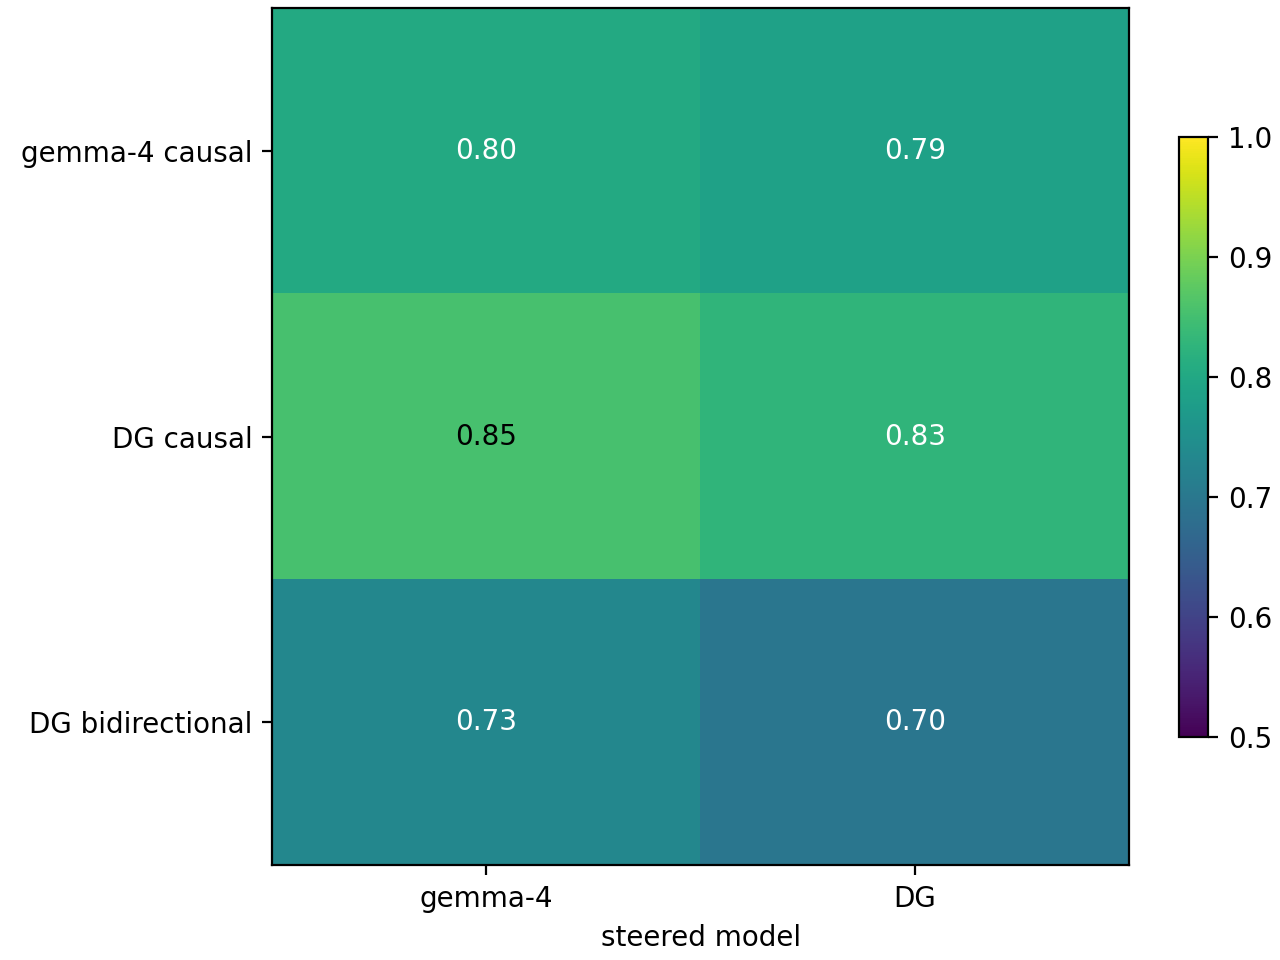
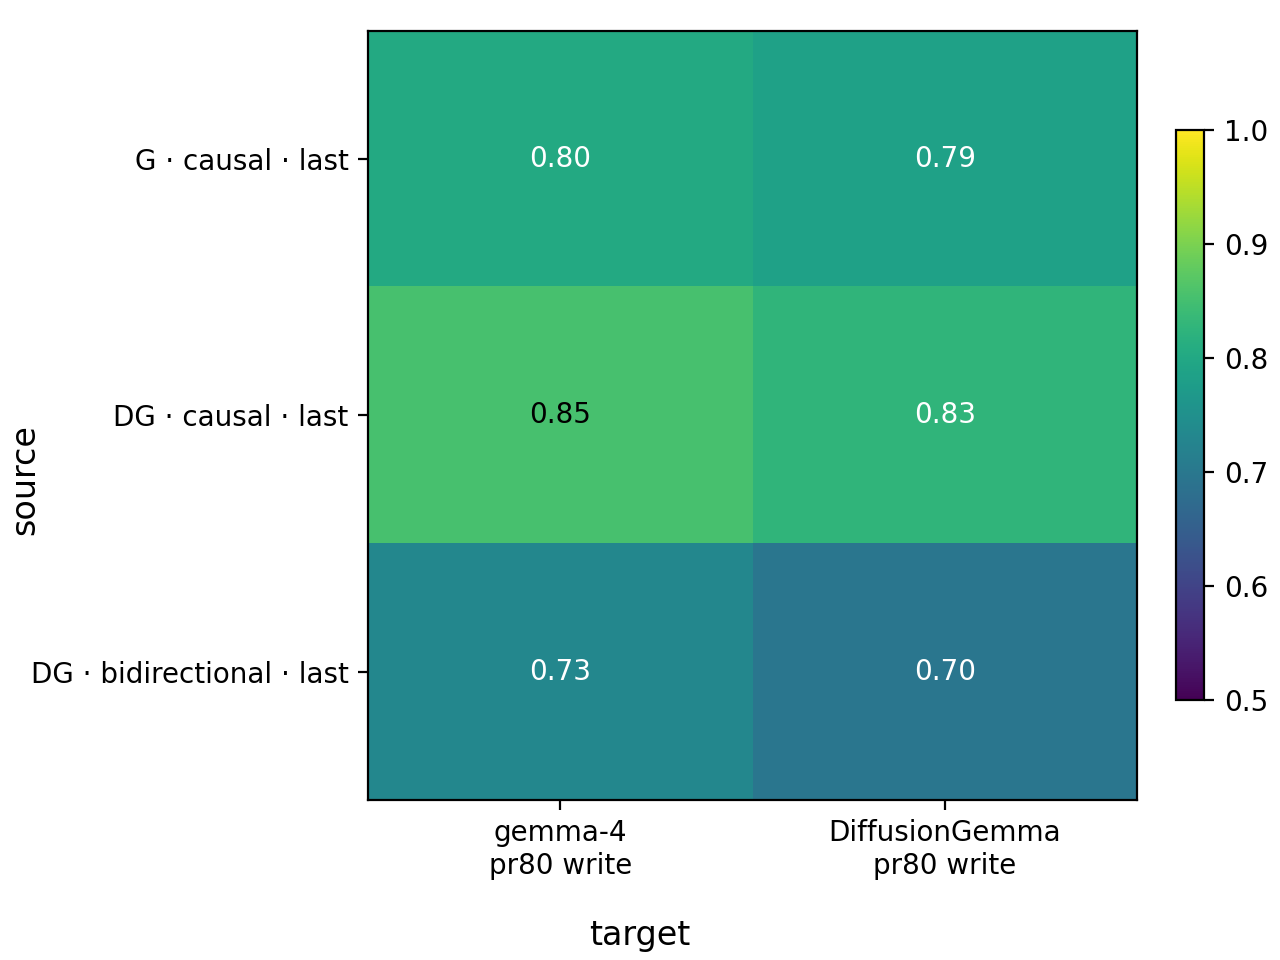
Source/target sup-labels + report-style detailed tick labels on probe/steer matrices; define mu; fixed-alpha wording
Claude-Session: https://claude.ai/code/session_01U8CiyQ7ySpBDkYEq4FzNBU

diff --git a/post.html b/post.html
@@ -112,11 +112,11 @@ $$</p>
 <h3>Probe retention</h3>
 <p>Probing allows to study how well a model separates concepts. We use 56 binary concept datasets from the SAE-Probes benchmark (<a href="https://arxiv.org/abs/2502.16681">Kantamneni et al., 2025</a>) and train logistic-regression probes on gemma-4's residual stream (1024 training examples per concept), optimizing the layer via heldout AUC. We then test this probe on DG.</p>
 <figure><img src="figs/figA2_probe_retention.png" alt="Probe retention"></figure>
-<p>_<strong>Probes largely transfer from Gemma to DiffusionGemma.</strong> Top: mean held-out AUC over the 56 concepts, trained-on × applied-to; DG is split by attention mode (last-position read everywhere), grey = causal ↔ bidirectional cross-cells not measured. Bottom: a held-out positive and negative test text for one concept (world news): the same gemma-trained probe scores gemma-4 and DG activations near-identically._</p>
+<p>_<strong>Probes largely transfer from Gemma to DiffusionGemma.</strong> Top: mean held-out AUC over the 56 concepts, probe source (trained on) × target (applied to); DG is split by attention mode (last-position read everywhere), grey = causal ↔ bidirectional cross-cells not measured. Bottom: a held-out positive and negative test text for one concept (world news): the same gemma-trained probe scores gemma-4 and DG activations near-identically._</p>
 <p>#### DiffusionGemma's representation is more linearly separable</p>
 <p>Interestingly, training and applying probes on DiffusionGemma in _bidirectional_ attention mode yields a somewhat higher AUC. This is suggestive of DG's bidirectional attention yielding a better structured representation, but is confounded by potentially longer training. </p>
 <h3>Steering retention</h3>
-<p>To see whether these similarities in representation are causally load-bearing, we consider the steering experiments from the RepE paper (<a href="https://arxiv.org/abs/2310.01405">Zou et al., 2023</a>). For each of 11 RepE concept tasks we fit a direction $\hat v = \mathrm{normalize}\big(\mu(h\,\vert\,\mathrm{pos}) - \mu(h\,\vert\,\mathrm{neg})\big)$ from the task's contrastive stimulus pairs, read at the last token separately on each stream (gemma-4, DG causal, DG bidirectional). The direction is then injected additively into the residual stream of the steered model ($h' \leftarrow h' + \alpha\,\lVert h'\rVert\,\hat v$, layers 9–19, $\alpha=0.35$) while it completes a neutral carrier prompt, once with $+\hat v$ and once with $-\hat v$. A blinded judge sees the two generations in random order and must identify the $+$steer one; chance is 0.5.</p>
+<p>To see whether these similarities in representation are causally load-bearing, we consider the steering experiments from the RepE paper (<a href="https://arxiv.org/abs/2310.01405">Zou et al., 2023</a>). For each of 11 RepE concept tasks we fit a direction $\hat v = \mathrm{normalize}\big(\mu(h\,\vert\,\mathrm{pos}) - \mu(h\,\vert\,\mathrm{neg})\big)$, where $\mu(h\,\vert\,\mathrm{pos})$ denotes the mean last-token residual activation $h$ over the task's positive contrastive stimuli (likewise for $\mathrm{neg}$), read separately on each stream (gemma-4, DG causal, DG bidirectional). The direction is then injected additively into the residual stream of the steered model at a fixed strength ($h' \leftarrow h' + \alpha\,\lVert h'\rVert\,\hat v$ with $\alpha=0.35$, layers 9–19) while it completes a neutral carrier prompt, once with $+\hat v$ and once with $-\hat v$. A blinded judge sees the two generations in random order and must identify the $+$steer one.</p>
 <figure><img src="figs/figA3_steer_retention.png" alt="Steering retention"></figure>
 <p>_<strong>Steering largely transfers from Gemma to DiffusionGemma.</strong> Top: blind-pair judge accuracy, direction source × steered model — every cell steers well above chance (0.70–0.85); bidirectional-fit directions are the weakest sources. Bottom: the same gemma-fit happiness direction applied to gemma-4 and DiffusionGemma on one carrier prompt; judge digests in italics._</p>
 <h3>J-Lens retention</h3>

diff --git a/scripts/figA3_steer.py b/scripts/figA3_steer.py
@@ -24,8 +24,10 @@ for k, v in jp["pairs"].items():
     tag, pi, cell, prot, _ = k.split("|")
     if prot == "pr80" and "correct" in v:
         acc[cell].append(bool(v["correct"]))
-ROWS = [("g", "gemma-4 causal"), ("e", "DG causal"), ("c", "DG bidirectional")]
-COLS = [("g", "gemma-4"), ("d", "DG")]
+# report-style model/mode/read tick hierarchy (source_label convention); targets carry the
+# pr80 write protocol
+ROWS = [("g", "G · causal · last"), ("e", "DG · causal · last"), ("c", "DG · bidirectional · last")]
+COLS = [("g", "gemma-4\npr80 write"), ("d", "DiffusionGemma\npr80 write")]
 M = np.array([[np.mean(acc[r + c]) for c, _ in COLS] for r, _ in ROWS])
 
 KEY = "re_0_happiness|8|gd|pr80|pos"
@@ -39,7 +41,8 @@ for (i, j), val in np.ndenumerate(M):
     axL.text(j, i, f"{val:.2f}", ha="center", va="center", color="white" if val < 0.85 else "black")
 axL.set_xticks([0, 1], [lab for _, lab in COLS])
 axL.set_yticks([0, 1, 2], [lab for _, lab in ROWS])
-axL.set_xlabel("steered model")
+fig.supxlabel("target")
+fig.supylabel("source")
 fig.colorbar(im_, ax=axL, shrink=0.7)
 fig.savefig(OUT / "parts" / "figA3_matrix.png", dpi=200)
 print(OUT / "parts" / "figA3_matrix.png")

diff --git a/scripts/figA2_probe.py b/scripts/figA2_probe.py
@@ -26,7 +26,8 @@ M = np.ma.masked_invalid([
     [mean("headline", "dg"), mean("headline", "dd"), np.nan],
     [mean("declast", "dg"),  np.nan,                 mean("declast", "dd")],
 ])
-LABS = ["gemma-4", "DG causal", "DG bidirectional"]
+# report-style model/mode/read tick hierarchy (source_label convention)
+LABS = ["G\ncausal\nlast", "DG\ncausal\nlast", "DG\nbidirectional\nlast"]
 
 pe = json.load(open(SP / "probe_example_scores.json"))
 TAG = "161_agnews_0"
@@ -47,10 +48,10 @@ axL.set_box_aspect(1)
 for (i, j), v in np.ndenumerate(M):
     axL.text(j, i, "—" if M.mask[i, j] else f"{v:.2f}", ha="center", va="center",
              color="0.4" if M.mask[i, j] else ("white" if v < 0.85 else "black"))
-axL.set_xticks(range(3), [l.replace(" ", "\n") for l in LABS])
-axL.set_yticks(range(3), LABS)
-axL.set_xlabel("applied to")
-axL.set_ylabel("trained on")
+axL.set_xticks(range(3), LABS)
+axL.set_yticks(range(3), [l.replace("\n", " · ") for l in LABS])
+fig.supxlabel("target")
+fig.supylabel("source")
 fig.colorbar(im_, ax=axL, shrink=0.7)
 fig.savefig(OUT / "parts" / "figA2_matrix.png", dpi=200)
 print(OUT / "parts" / "figA2_matrix.png")

diff --git a/post.md b/post.md
@@ -100,7 +100,7 @@ Probing allows to study how well a model separates concepts. We use 56 binary co
 
 ![Probe retention](figs/figA2_probe_retention.png)
 
-_**Probes largely transfer from Gemma to DiffusionGemma.** Top: mean held-out AUC over the 56 concepts, trained-on × applied-to; DG is split by attention mode (last-position read everywhere), grey = causal ↔ bidirectional cross-cells not measured. Bottom: a held-out positive and negative test text for one concept (world news): the same gemma-trained probe scores gemma-4 and DG activations near-identically._
+_**Probes largely transfer from Gemma to DiffusionGemma.** Top: mean held-out AUC over the 56 concepts, probe source (trained on) × target (applied to); DG is split by attention mode (last-position read everywhere), grey = causal ↔ bidirectional cross-cells not measured. Bottom: a held-out positive and negative test text for one concept (world news): the same gemma-trained probe scores gemma-4 and DG activations near-identically._
 
 #### DiffusionGemma's representation is more linearly separable
 
@@ -108,7 +108,7 @@ Interestingly, training and applying probes on DiffusionGemma in _bidirectional_
 
 ### Steering retention
 
-To see whether these similarities in representation are causally load-bearing, we consider the steering experiments from the RepE paper ([Zou et al., 2023](https://arxiv.org/abs/2310.01405)). For each of 11 RepE concept tasks we fit a direction $\hat v = \mathrm{normalize}\big(\mu(h\,\vert\,\mathrm{pos}) - \mu(h\,\vert\,\mathrm{neg})\big)$ from the task's contrastive stimulus pairs, read at the last token separately on each stream (gemma-4, DG causal, DG bidirectional). The direction is then injected into the residual stream of the steered model with optimized steering strength $\alpha$  ($h' \leftarrow h' + \alpha\,\lVert h'\rVert\,\hat v$, layers 9–19$) while it completes a neutral carrier prompt, once with +\hat v$ and once with $-\hat v$. A blinded judge sees the two generations in random order and must identify the $+$steer one; chance is 0.5.
+To see whether these similarities in representation are causally load-bearing, we consider the steering experiments from the RepE paper ([Zou et al., 2023](https://arxiv.org/abs/2310.01405)). For each of 11 RepE concept tasks we fit a direction $\hat v = \mathrm{normalize}\big(\mu(h\,\vert\,\mathrm{pos}) - \mu(h\,\vert\,\mathrm{neg})\big)$, where $\mu(h\,\vert\,\mathrm{pos})$ denotes the mean last-token residual activation $h$ over the task's positive contrastive stimuli (likewise for $\mathrm{neg}$), read separately on each stream (gemma-4, DG causal, DG bidirectional). The direction is then injected additively into the residual stream of the steered model at a fixed strength ($h' \leftarrow h' + \alpha\,\lVert h'\rVert\,\hat v$ with $\alpha=0.35$, layers 9–19) while it completes a neutral carrier prompt, once with $+\hat v$ and once with $-\hat v$. A blinded judge sees the two generations in random order and must identify the $+$steer one.
 
 ![Steering retention](figs/figA3_steer_retention.png)
 
